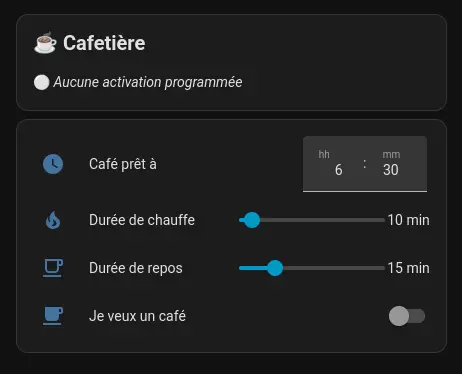
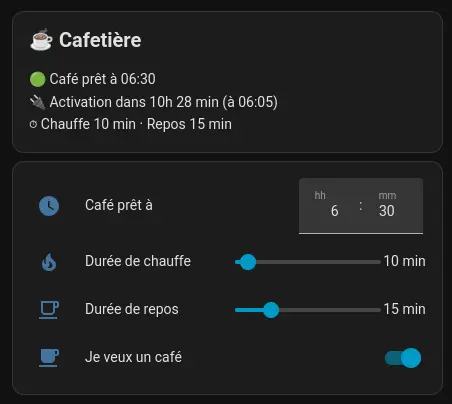
petite update carte lovelace aspi/café

diff --git a/_posts/2023-10-30-HomeAssistant.md b/_posts/2023-10-30-HomeAssistant.md
@@ -854,21 +854,41 @@ cards:
     content: >
       ## ☕ Cafetière
 
-      {% set pret = states('input_datetime.cafe_pret')[0:5] %} {% set chauffe =
-      states('input_number.cafe_duree_chauffe') | int %} {% set repos =
-      states('input_number.cafe_duree_repos') | int %} {% set activation =
-      state_attr('input_datetime.cafe_activation', 'timestamp') | as_datetime |
-      as_local %}
+      {% set pret = states('input_datetime.cafe_pret')[0:5] %}
+
+      {% set chauffe = states('input_number.cafe_duree_chauffe') | int %}
+
+      {% set repos = states('input_number.cafe_duree_repos') | int %}
+
+      {% set activation = state_attr('input_datetime.cafe_activation',
+      'timestamp') | as_datetime | as_local %}
 
       {% if is_state('switch.prise_connectee_tapo', 'on') and
-      is_state('input_boolean.cafe_demain', 'on') %} 🔥 **En chauffe !** Prête à
-      {{ pret }} {% elif is_state('input_boolean.cafe_demain', 'on') %} {% set
-      delta = (activation - now()).total_seconds() %} {% set h = (delta // 3600)
-      | int %} {% set m = ((delta % 3600) // 60) | int %} 🟢 **Café prêt à :**
-      {{ pret }} 🔌 **Activation dans :** {% if delta < 60 %}moins d'une
-      minute{% elif h > 0 %}{{ h }}h {{ m }} min{% else %}{{ m }} min{% endif %}
-      (à {{ activation.strftime('%H:%M') }}) ⏱ Chauffe {{ chauffe }} min · Repos
-      {{ repos }} min {% else %} ⚪ *Aucune activation programmée* {% endif %}
+      is_state('input_boolean.cafe_demain', 'on') %}
+
+      🔥 En chauffe — prête à {{ pret }}
+
+      {% elif is_state('input_boolean.cafe_demain', 'on') %}
+
+      {% set delta = (activation - now()).total_seconds() %}
+
+      {% set h = (delta // 3600) | int %}
+
+      {% set m = ((delta % 3600) // 60) | int %}
+
+      🟢 Café prêt à {{ pret }}
+
+      🔌 Activation dans {% if delta < 60 %}moins d'une minute{% elif h > 0 %}{{
+      h }}h {{ m }} min{% else %}{{ m }} min{% endif %} (à {{
+      activation.strftime('%H:%M') }})
+
+      ⏱ Chauffe {{ chauffe }} min · Repos {{ repos }} min
+
+      {% else %}
+
+      ⚪ Aucune activation programmée
+
+      {% endif %}
   - type: entities
     entities:
       - entity: input_datetime.cafe_pret
@@ -881,6 +901,7 @@ cards:
         name: Je veux un café
         icon: mdi:coffee
 
+
 {% endraw %} ```
 
 <!--  
@@ -892,7 +913,9 @@ cards:
 ╚═╝  ╚═╝╚══════╝╚═╝     ╚═╝╚═╝  ╚═╝╚═╝  ╚═╝   ╚═╝   ╚══════╝ ╚═════╝ ╚═╝  ╚═╝
 -->
 
-J’ai un aspirateur iRobot, pour l’instant j’ai peu d’automatisation. Mais je peux améliorer la carte de base :
+# Aspirateur
+
+J’ai un aspirateur iRobot, pour l’instant j’ai peu d’automatisation. Je prévois à terme d’automatiser l’aspiration lorsque personne n’est à la maison (détection via les téléphones), mettre en pause en cas d’appel téléphonique,…). Mais je peux dans un premier temps au moins améliorer la carte de base :
 
 ![carte aspirateur](/assets/images/domotique/aspi.webp){: width="550" style="display: block; margin: 0 auto"}
 
@@ -901,24 +924,32 @@ J’ai un aspirateur iRobot, pour l’instant j’ai peu d’automatisation. Mai
 type: vertical-stack
 cards:
   - type: markdown
-    content: >
+    content: |
       ## 🤖 Wall-E
-
-      {% set state = states('vacuum.wall_e') %} {% if state == 'cleaning' %} 🟢
-      **Aspiration en cours** {% elif state == 'docked' %} 🔵 En charge ·
-      Batterie {{ states('sensor.wall_e_battery_level') }}% {% elif state ==
-      'returning' %} 🔄 Retour à la base… {% elif state == 'paused' %} ⏸ En
-      pause {% elif state == 'error' %} 🔴 **Erreur :** {{
-      state_attr('vacuum.wall_e', 'error') }} {% else %} ⚪ En attente {% endif
-      %}
-
-      {% if is_state('binary_sensor.wall_e_bin_full', 'on') %} ⚠ **Bac plein —
-      pensez à le vider** {% endif %}
-
-      missions · {{ states('sensor.wall_e_total_missions') }} · batterie · {{
-      states('sensor.wall_e_battery_level') }}%
+      {% set state = states('vacuum.wall_e') %}
+      {% if state == 'cleaning' %}
+      🟢 Aspiration en cours
+      {% elif state == 'docked' %}
+      🔵 En charge · Batterie {{ states('sensor.wall_e_battery_level') }}%
+      {% elif state == 'returning' %}
+      🔄 Retour à la base…
+      {% elif state == 'paused' %}
+      ⏸ En pause
+      {% elif state == 'error' %}
+      🔴 Erreur : {{ state_attr('vacuum.wall_e', 'error') }}
+      {% else %}
+      ⚪ En attente
+      {% endif %}
+      {% if is_state('input_boolean.walle_programme', 'on') %}
+      ⏰ Programmé pour {{ states('input_datetime.irobot_schedule')[0:5] }}
+      {% endif %}
+      {% if is_state('binary_sensor.wall_e_bin_full', 'on') %}
+      ⚠ Bac plein — pensez à le vider
+      {% endif %}
   - type: entities
     entities:
+      - entity: vacuum.wall_e
+        name: Wall-E
       - type: button
         name: Aspire maintenant
         icon: mdi:play-circle
@@ -929,14 +960,9 @@ cards:
             entity_id: vacuum.wall_e
       - entity: input_datetime.irobot_schedule
         name: Aspire à
-      - type: button
-        name: Aspire à l'heure programmée
-        icon: mdi:calendar-clock
-        tap_action:
-          action: call-service
-          service: automation.trigger
-          data:
-            entity_id: automation.walle_aspiration_programmee
+      - entity: input_boolean.walle_programme
+        name: Activer la programmation
+        icon: mdi:clock-check
       - type: button
         name: Pause — retour à la base
         icon: mdi:stop-circle
@@ -955,11 +981,17 @@ Pour pouvoir l’utiliser, je dois ajouter un bout de code à la fin de automati
   triggers:
   - trigger: time
     at: input_datetime.irobot_schedule
-  conditions: []
+  conditions:
+  - condition: state
+    entity_id: input_boolean.walle_programme
+    state: "on"
   actions:
   - action: vacuum.start
     target:
       entity_id: vacuum.wall_e
+  - action: input_boolean.turn_off
+    target:
+      entity_id: input_boolean.walle_programme
   mode: single
 {% endraw %} ```
 
@@ -971,17 +1003,16 @@ input_boolean:
   cafe_demain:
     name: "Je veux un café"
     icon: mdi:coffee
-  irobot_auto:
-    name: "Wall-E automatisation"
-    icon: mdi:robot-vacuum
+  walle_programme:
+    name: "Wall-E programmé"
+    icon: mdi:clock-outline
 {% endraw %} ```
 
 
 
+# À voir…
 
-
-
-J’installe aussi strava via HACS… mais nécessite une url publique
+* J’essaye Strava via HACS… mais nécessite une url publique, j’aurais aiméé ajouté beacon automatiquement sur la carte
 
 
 
